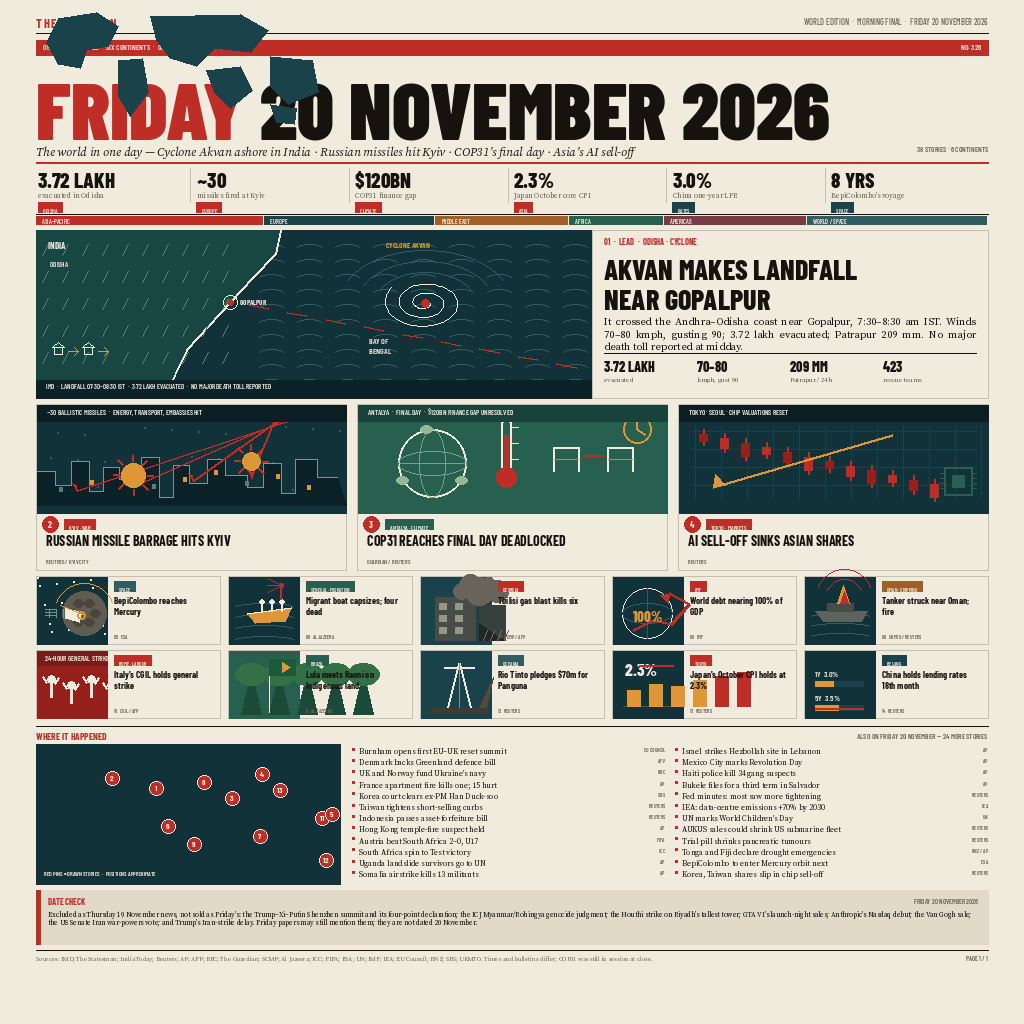
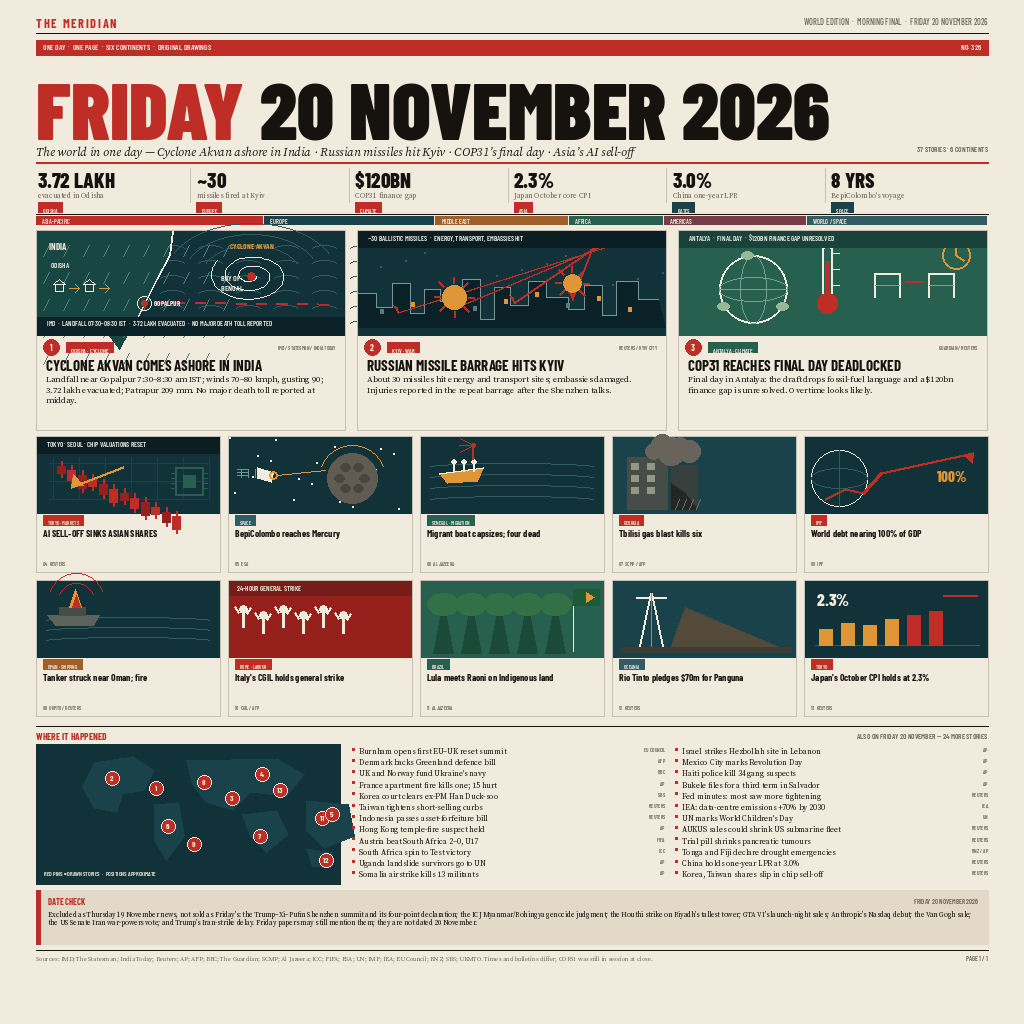
Unobstruct the Friday masthead and even the illustrated-card grid
Offset the locator-map continents into the map frame so they no longer
cover the date masthead, and replace the mixed hero/card layout with
three equal illustrated leads plus a uniform 5x2 illustrated-card grid.

Changed region(s): [[0.0312, 0.2188, 0.9688, 0.7188], [0.0312, 0.0, 0.3125, 0.125], [0.3125, 0.7812, 0.3438, 0.8125]]

diff --git a/tools/gen_entry.py b/tools/gen_entry.py
@@ -496,13 +496,15 @@ REGIONS = [
 FEATURED = [
     dict(n=1, illus=illus_cyclone, tag="ODISHA · CYCLONE", tagc=RED,
          head="CYCLONE AKVAN COMES ASHORE IN INDIA",
-         deck="It crossed the Andhra–Odisha coast near Gopalpur, 7:30–8:30 am IST. Winds 70–80 kmph, gusting 90; 3.72 lakh evacuated; Patrapur 209 mm. No major death toll reported at midday.",
-         source="IMD / THE STATESMAN / INDIA TODAY", kind="lead"),
+         deck="Landfall near Gopalpur 7:30–8:30 am IST; winds 70–80 kmph, gusting 90; 3.72 lakh evacuated; Patrapur 209 mm. No major death toll reported at midday.",
+         source="IMD / STATESMAN / INDIA TODAY", kind="lead"),
     dict(n=2, illus=illus_kyiv, tag="KYIV · WAR", tagc=RED,
          head="RUSSIAN MISSILE BARRAGE HITS KYIV",
+         deck="About 30 missiles hit energy and transport sites; embassies damaged. Injuries reported in the repeat barrage after the Shenzhen talks.",
          source="REUTERS / KYIV CITY", kind="med"),
     dict(n=3, illus=illus_cop, tag="ANTALYA · CLIMATE", tagc=GREEN,
          head="COP31 REACHES FINAL DAY DEADLOCKED",
+         deck="Final day in Antalya: the draft drops fossil-fuel language and a $120bn finance gap is unresolved. Overtime looks likely.",
          source="GUARDIAN / REUTERS", kind="med"),
     dict(n=4, illus=illus_markets, tag="TOKYO · MARKETS", tagc=RED,
          head="AI SELL-OFF SINKS ASIAN SHARES",
@@ -552,7 +554,7 @@ BRIEFS = [
     ("AUKUS sales could shrink US submarine fleet", "REUTERS"),
     ("Trial pill shrinks pancreatic tumours", "REUTERS"),
     ("Tonga and Fiji declare drought emergencies", "RNZ / AP"),
-    ("BepiColombo to enter Mercury orbit next", "ESA"),
+    ("China holds one-year LPR at 3.0%", "REUTERS"),
     ("Korea, Taiwan shares slip in chip sell-off", "REUTERS"),
 ]
 
@@ -590,7 +592,7 @@ text(d, (M + fw + 16, 60), "20 NOVEMBER 2026", mf, INK)
 text(d, (M, 143),
      "The world in one day — Cyclone Akvan ashore in India · Russian missiles hit Kyiv · COP31’s final day · Asia’s AI sell-off",
      F(SERIF_IT, 12.2), INK)
-text(d, (W - M, 144), "38 STORIES · 6 CONTINENTS", F(BC_SB, 7.4), MUTED, anchor="ra")
+text(d, (W - M, 144), "37 STORIES · 6 CONTINENTS", F(BC_SB, 7.4), MUTED, anchor="ra")
 rule(d, M, 162, W - M, 162, 2, RED)
 
 # stat rail
@@ -612,63 +614,41 @@ for label, frac, col in REGIONS:
     text(d, (rx + 6, 217.3), label, F(BC_SB, 6.2), CREAM)
     rx += rw
 
-# ------------------------------------------------------------- lead hero
-LY0, LY1 = 230, 398
-LX0, LXSPLIT, LX1 = M, 592, W - M
-feat = FEATURED[0]
-feat["illus"](d, LX0, LY0, LXSPLIT - LX0, LY1 - LY0)
-d.rectangle([LXSPLIT, LY0, LX1, LY1], outline=FAINT, width=1)
-tx = LXSPLIT + 12
-tw = LX1 - tx - 12
-text(d, (tx, LY0 + 6), f"{feat['n']:02d}  ·  LEAD  ·  {feat['tag']}", F(BC_B, 8.4), RED)
-hy = LY0 + 22
-for line in ("AKVAN MAKES LANDFALL", "NEAR GOPALPUR"):
-    text(d, (tx, hy), line, F(BC_XB, 28), INK)
-    hy += 30
-hy += 2
-hy, _ = draw_para(d, feat["deck"], F(SERIF, 10.6), tx, hy, tw, 12.6, INK,
-                  justify=True, max_lines=3)
-# lead numbers
-nums = [("3.72 LAKH", "evacuated"), ("70–80", "kmph, gust 90"),
-        ("209 MM", "Patrapur / 24h"), ("423", "rescue teams")]
-nw = tw / 4
-ny = LY1 - 40
-rule(d, tx, ny - 5, LX1 - 12, ny - 5, 1, INK)
-for i, (b, s) in enumerate(nums):
-    nx = tx + i * nw
-    text(d, (nx, ny), b, F(BC_XB, 14), INK)
-    text(d, (nx, ny + 17), s, F(SERIF, 6.6), MUTED)
+# ------------------------------------------------------------- three leads
+LEAD_Y0, LEAD_Y1 = 230, 430
+lgap = 12
+lw = (CW - 2 * lgap) // 3
+lead_img_h = 104
+for i, feat in enumerate(FEATURED[:3]):
+    lx = M + i * (lw + lgap)
+    d.rectangle([lx, LEAD_Y0, lx + lw, LEAD_Y1], outline=FAINT, width=1)
+    feat["illus"](d, lx + 1, LEAD_Y0 + 1, lw - 2, lead_img_h)
+    by = LEAD_Y0 + lead_img_h + 4
+    badge(d, lx + 15, by + 9, feat["n"])
+    tag(d, lx + 30, by + 4, feat["tag"], fill=feat["tagc"], size=6.0)
+    text(d, (lx + lw - 9, by + 6), feat["source"], F(BC_SB, 5.2), MUTED, anchor="ra")
+    hy, _ = draw_para(d, feat["head"], F(BC_B, 15.0), lx + 10, by + 18,
+                      lw - 20, 15.5, INK, max_lines=2)
+    if feat.get("deck"):
+        hy, _ = draw_para(d, feat["deck"], F(SERIF, 8.6), lx + 10, hy + 2,
+                          lw - 20, 10.4, INK, max_lines=3)
 
-# ------------------------------------------------------------- medium cards
-card_y0, card_y1 = 404, 570
-cw = (CW - 22) // 3
-for i, feat in enumerate(FEATURED[1:4]):
-    cx = M + i * (cw + 11)
-    d.rectangle([cx, card_y0, cx + cw, card_y1], outline=FAINT, width=1)
-    feat["illus"](d, cx + 1, card_y0 + 1, int(cw) - 1, 108)
-    by = card_y0 + 112
-    badge(d, cx + 14, by + 8, feat["n"])
-    tag(d, cx + 28, by + 3, feat["tag"], fill=feat["tagc"], size=5.8)
-    hy, _ = draw_para(d, feat["head"], F(BC_B, 14), cx + 10, by + 16,
-                      cw - 20, 14.5, INK, max_lines=2)
-    text(d, (cx + 10, card_y1 - 12), feat["source"], F(BC_SB, 5.8), MUTED)
-
-# ------------------------------------------------------------- small cards
-row_y = [576, 650]
-sh = 68
-sw = (CW - 32) // 5
-for k, feat in enumerate(FEATURED[4:]):
-    r, c = divmod(k, 5)
-    sx = M + c * (sw + 8)
-    sy = row_y[r]
-    d.rectangle([sx, sy, sx + sw, sy + sh], outline=FAINT, width=1)
-    feat["illus"](d, sx + 1, sy + 1, 70, sh - 1)
-    bx = sx + 78
-    tag(d, bx, sy + 5, feat["tag"], fill=feat["tagc"], size=5.2)
-    hy, _ = draw_para(d, feat["head"], F(BC_B, 9.3), bx, sy + 18,
-                      sw - 84, 10.6, INK, max_lines=3)
-    text(d, (bx, sy + sh - 11), f"{feat['n']:02d}  {fit(feat['source'], F(BC_SB, 5.2), sw - 84)}",
-         F(BC_SB, 5.2), MUTED)
+# ------------------------------------------------------------- compact card grid
+GX0, GY0 = M, 436
+gcols, ggap, gh = 5, 8, 136
+gw = (CW - (gcols - 1) * ggap) // gcols
+for k, feat in enumerate(FEATURED[3:13]):
+    r, c = divmod(k, gcols)
+    gx = GX0 + c * (gw + ggap)
+    gy = GY0 + r * (gh + ggap)
+    d.rectangle([gx, gy, gx + gw, gy + gh], outline=FAINT, width=1)
+    feat["illus"](d, gx + 1, gy + 1, gw - 2, 76)
+    tag(d, gx + 7, gy + 79, feat["tag"], fill=feat["tagc"], size=5.0)
+    hy, _ = draw_para(d, feat["head"], F(BC_B, 9.6), gx + 7, gy + 91,
+                      gw - 14, 11, INK, max_lines=3)
+    text(d, (gx + 7, gy + gh - 11),
+         f"{feat['n']:02d}  {fit(feat['source'], F(BC_SB, 5.0), gw - 22)}",
+         F(BC_SB, 5.0), MUTED)
 
 # ------------------------------------------------------------- section head
 rule(d, M, 726, W - M, 726, 1, INK)
@@ -679,15 +659,16 @@ text(d, (W - M, 731), "ALSO ON FRIDAY 20 NOVEMBER — 24 MORE STORIES",
 # ------------------------------------------------------------- map
 MX0, MY0, MX1, MY1 = M, 744, 340, 884
 d.rectangle([MX0, MY0, MX1, MY1], fill=PETROL)
-# stylised continents
-d.polygon([(58, 18), (96, 12), (118, 26), (108, 46), (86, 50), (80, 68),
-           (58, 64), (46, 42)], fill=PETROL2)
-d.polygon([(118, 60), (142, 58), (148, 92), (130, 116), (118, 96)], fill=PETROL2)
-d.polygon([(150, 16), (240, 14), (268, 30), (250, 52), (214, 48), (196, 66),
-           (170, 58), (156, 40)], fill=PETROL2)
-d.polygon([(206, 70), (240, 66), (252, 90), (230, 108), (214, 92)], fill=PETROL2)
-d.polygon([(270, 56), (312, 60), (318, 92), (288, 104), (270, 86)], fill=PETROL2)
-d.polygon([(270, 104), (296, 108), (294, 124), (276, 122)], fill=PETROL2)
+# stylised continents (kept inside the map frame, never over the masthead)
+for pts in [
+    [(58, 18), (96, 12), (118, 26), (108, 46), (86, 50), (80, 68), (58, 64), (46, 42)],
+    [(118, 60), (142, 58), (148, 92), (130, 116), (118, 96)],
+    [(150, 16), (240, 14), (268, 30), (250, 52), (214, 48), (196, 66), (170, 58), (156, 40)],
+    [(206, 70), (240, 66), (252, 90), (230, 108), (214, 92)],
+    [(270, 56), (312, 60), (318, 92), (288, 104), (270, 86)],
+    [(270, 104), (296, 108), (294, 124), (276, 122)],
+]:
+    d.polygon([(MX0 + px, MY0 + py) for px, py in pts], fill=PETROL2)
 pins = [(76, 34, 2), (132, 82, 6), (168, 38, 8), (196, 54, 3), (226, 30, 4),
         (244, 46, 13), (286, 74, 11), (296, 70, 5), (120, 44, 1), (224, 92, 7),
         (290, 116, 12), (158, 100, 9)]
